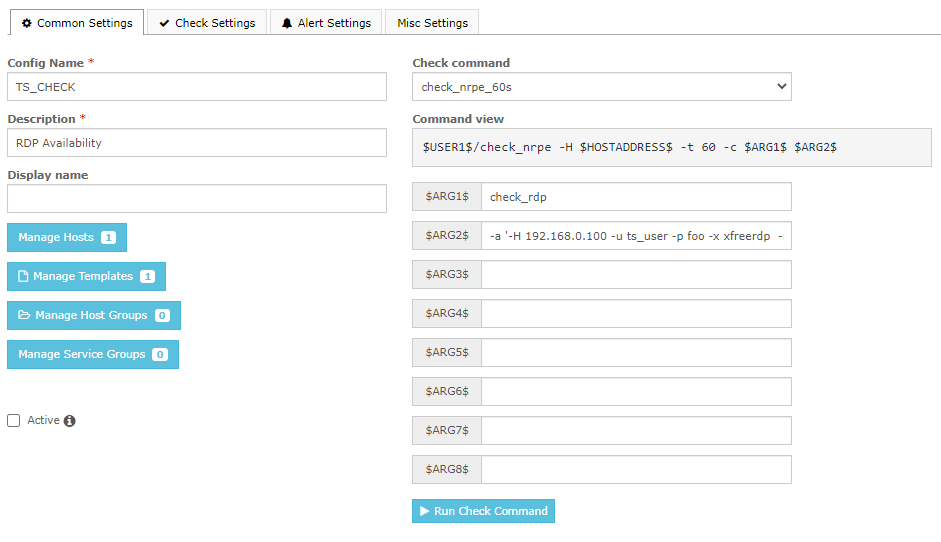
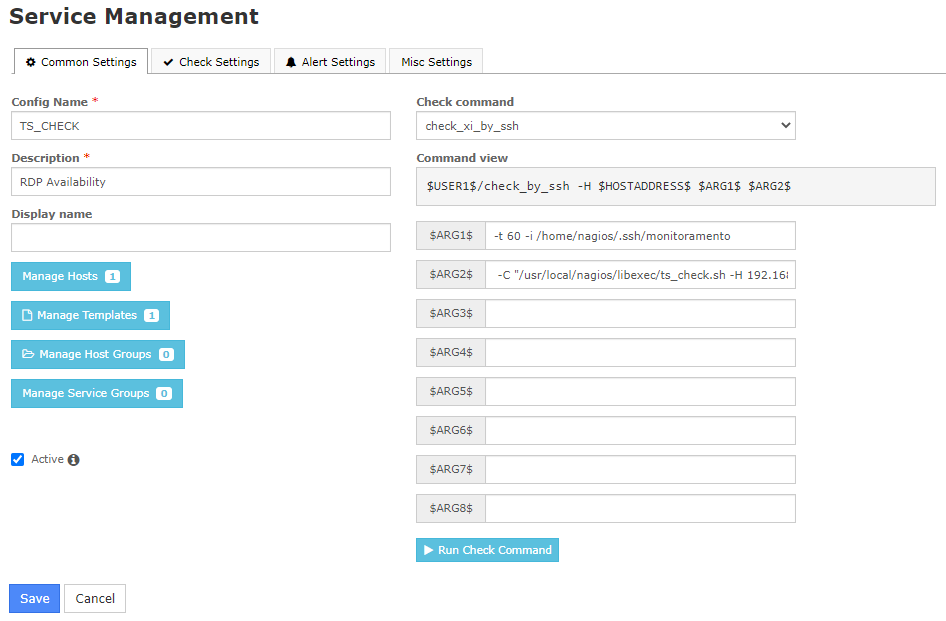
more corrections
at readme and pictures used

diff --git a/README.md b/README.md
@@ -6,15 +6,7 @@
 
 This project is a python 3 script, aided with a shell script that allows Nagios open a graphcal TS session from an Linux server with a GUI installed.
 
-## Installing / Getting started
-
-What do you need to run ts_check
-
-* Linux server with GUI installed
-* Python 3
-* xfreerdp package
-
-### Installing graphical interface
+## Installing graphical interface
 
 ```shell
  sudo yum groups list
@@ -22,7 +14,7 @@ What do you need to run ts_check
  sudo systemctl set-default graphical.target
 ```
 
-### Installing python3 and other dependencies
+## Installing python3 and other dependencies
 
 ```shell
  wget http://packages.psychotic.ninja/7/base/x86_64/RPMS/psychotic-release-1.0.0-1.el7.psychotic.noarch.rpm
@@ -32,13 +24,13 @@ What do you need to run ts_check
  pip3 install keyboard pyautogui numpy==1.19.3 Pillow opencv-contrib-python
  ```
 
-### Installing xfreerdp
+## Installing xfreerdp
 
 ```shell
  sudo yum install xfreerdp
 ```
 
-### OPTIONAL: Install x11VNC and make it connect at default screen for remote management
+## OPTIONAL: Install x11VNC and make it connect at default screen for remote management
 
 ```shell
  sudo yum install x11vnc
@@ -63,7 +55,7 @@ What do you need to run ts_check
  sudo reboot
 ```
 
-> Preparing system for Nagios use start RDP session remotely:
+## Preparing system for Nagios use start RDP session remotely:
 
 * As the user that runs the script (nagios), inside GUI:
 
@@ -118,7 +110,7 @@ Quickest way...
     #nagios ALL=NOPASSWD: /usr/local/nagios/libexec/check_asterisk_sip_peers.sh, /usr/local/nagios/libexec/nagisk.pl, /usr/sbin/asterisk
 ```
 
-### Connection Configuration
+## Connection Configuration
 
 > This time the script uses a ssh connection to execute, due to several problems that occured trying to make nrpe runs it properly.
 
@@ -167,6 +159,9 @@ You must connect directly without having to type a password...
 ```shell
 mkdir /usr/local/nagios/libexec/tscheck
 ```
+## Script execution
+
+When Nagios calls the script it connects to the windows server and recognizes if the connection was successfull or not, and then executes some procedures.
 
 ### Pictures used in the actual script version
 
@@ -196,15 +191,18 @@ The pictures are actually used for the logoff process, that could be OK or NOK.
 
 * The script uses a function that will click at the center of the pictures, be carefull when take the prints to keep where do you want to click as colse to the center as possible. You may do some adjustments by increasing or decreasing the x and y variables accordingly.
 
-```shell
- service xinetd restart
-```
+## Nagios Configuration
 
-### Nagios Configuration
+
 
 ![Nagios Config](https://github.com/FernandoRD/ts_check/blob/main/images/picture5.png)
 
-> Parameters options:
+> Check_by_ssh parameters options:
+* -t \<timeout\> 
+* -i \<created ssh key location\>
+* -C \<ssh command to execute\>
+
+> ts_check parameters options:
 
 * -H \<host_name or IP\>
 * -u \<ts_user\>
@@ -215,13 +213,13 @@ The pictures are actually used for the logoff process, that could be OK or NOK.
 
 ### Example of $ARG1$
 
--a '-H 192.168.0.100 -u ts_user -p foo -r 3 -c 0.8 -x xfreerdp'
+-t 60 -i /home/nagios/.ssh/monitoramento
 
-> Tip: Command takes a wile to execute, it is better to create a nrpe command with a timeout of 60 sec.
+### Example of $ARG2$
 
-### Final preparation
+-C "/usr/local/nagios/libexec/ts_check.sh -H 192.168.0.109 -u rdp_win_user -p foo -x xfreerdp -r 3 -c 0.8"
 
-You gonna find 3 .png files together with the scripts. They´re used in the image recognition, take the screeshots that suits your enviroment. (Those are taken from WinXP for testing)
+> Tip: Command takes a wile to execute, it is better to use at least a timeout of 60 sec.
 
 ## Developing
 
